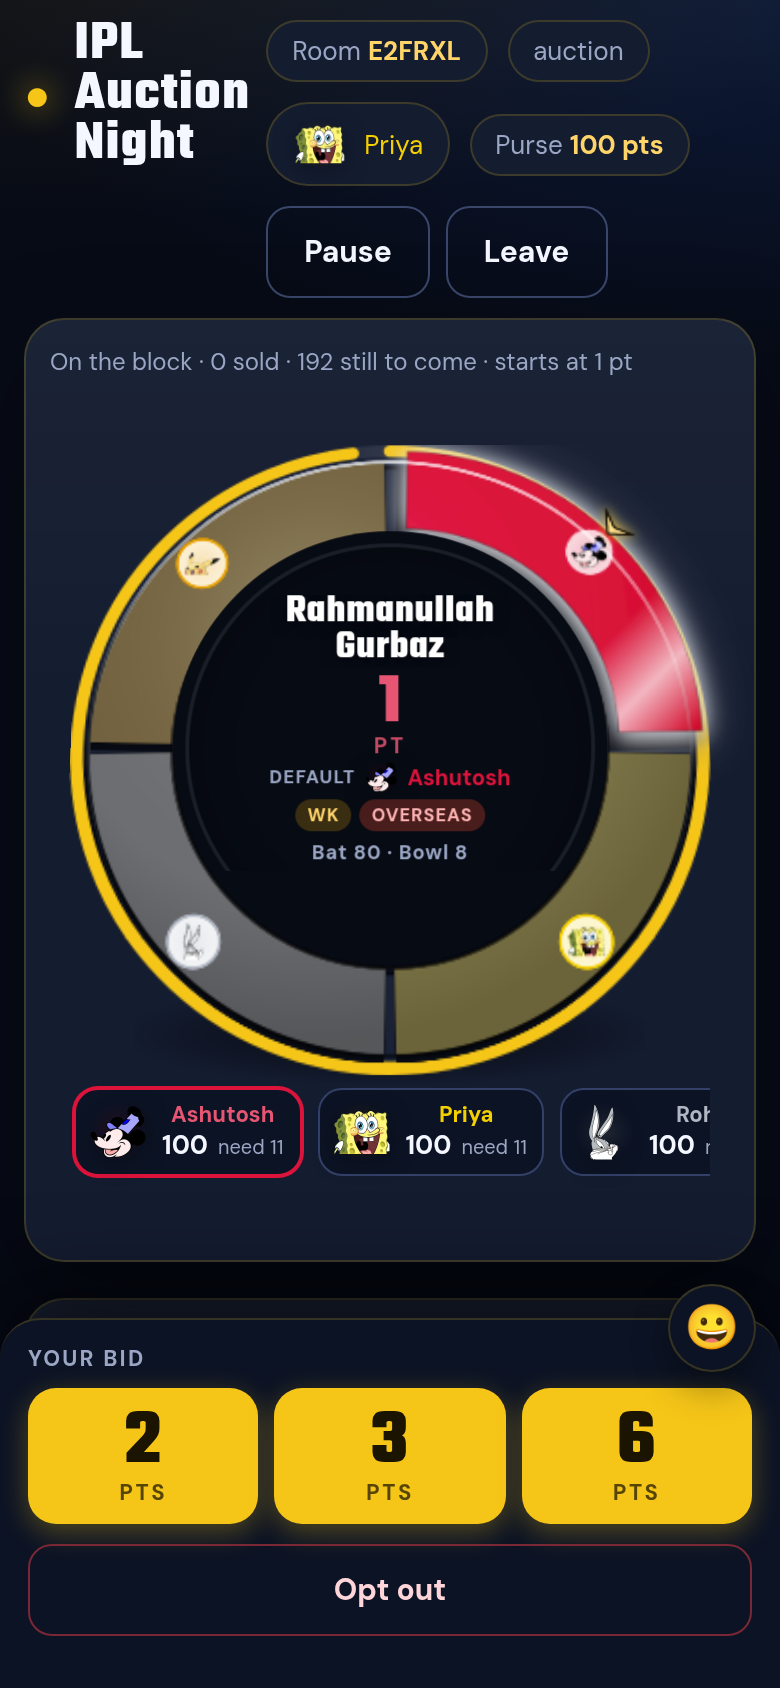
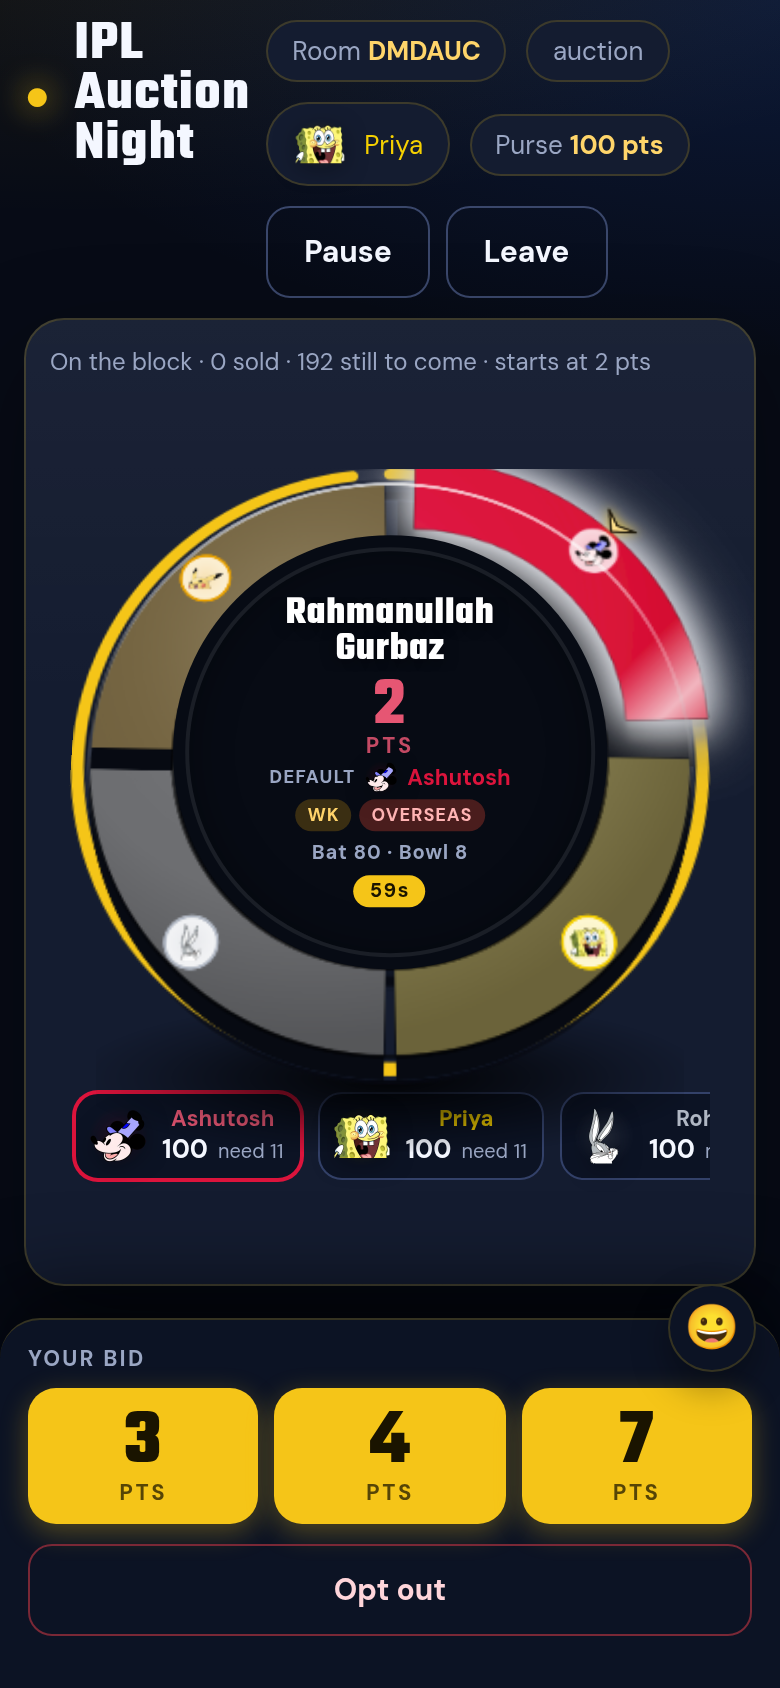
Make the auction ring more 3D and keep the timer visible on phones.
The centre timer was being clipped by the circular hub on 390px; the hub now sits above the 3D stage and its inner stack is capped so the pill stays inside the disc. The ring itself tilts more steeply, with a taller extruded lip, a stronger ground shadow, and a clearer lift (radial plus upward, with a crisper drop shadow) on the leading segment.

diff --git a/public/ring.js b/public/ring.js
@@ -15,8 +15,9 @@
   const R_LOGO = 170;
   const GAP = 2.2;
   const DURATION = 320;
-  const LIFT = 12;
-  const EXTRUDE_Y = 5;
+  const LIFT = 20;
+  const LIFT_UP = -8;
+  const EXTRUDE_Y = 14;
 
   function polar(cx, cy, r, angle) {
     const a = ((angle - 90) * Math.PI) / 180;
@@ -146,24 +147,57 @@
       x: "-45%", y: "-45%", width: "190%", height: "200%",
     });
     shadow.innerHTML = `
-      <feDropShadow dx="1" dy="8" stdDeviation="3.6" flood-color="#000000" flood-opacity="0.62"/>
+      <feOffset in="SourceAlpha" dx="1.4" dy="14" result="off"/>
+      <feGaussianBlur in="off" stdDeviation="2.8" result="blur"/>
+      <feColorMatrix in="blur" type="matrix" values="0 0 0 0 0  0 0 0 0 0  0 0 0 0 0  0 0 0 0.58 0" result="soft"/>
+      <feOffset in="SourceAlpha" dx="0.8" dy="5" result="off2"/>
+      <feGaussianBlur in="off2" stdDeviation="1.05" result="blur2"/>
+      <feColorMatrix in="blur2" type="matrix" values="0 0 0 0 0  0 0 0 0 0  0 0 0 0 0  0 0 0 0.72 0" result="contact"/>
+      <feMerge>
+        <feMergeNode in="soft"/>
+        <feMergeNode in="contact"/>
+        <feMergeNode in="SourceGraphic"/>
+      </feMerge>
     `;
     defs.appendChild(shadow);
 
-    const thickness = el("g", { class: "ring-thickness", transform: `translate(0 ${EXTRUDE_Y})`, "aria-hidden": "true" });
-    const thickBand = el("circle", {
-      cx: CX, cy: CY, r: (R_INNER + R_OUTER) / 2,
-      fill: "none",
-      stroke: "#05070f",
-      "stroke-width": String(R_OUTER - R_INNER + 6),
+    const wallGrad = el("linearGradient", {
+      id: "ring-wall-grad",
+      gradientUnits: "userSpaceOnUse",
+      x1: "200", y1: String(CY + R_INNER - 4),
+      x2: "200", y2: String(CY + R_OUTER + EXTRUDE_Y + 2),
     });
-    const thickFace = el("circle", {
-      cx: CX, cy: CY, r: (R_INNER + R_OUTER) / 2,
+    wallGrad.innerHTML = `
+      <stop offset="0%" stop-color="#1c2438"/>
+      <stop offset="45%" stop-color="#0c101c"/>
+      <stop offset="100%" stop-color="#05070f"/>
+    `;
+    defs.appendChild(wallGrad);
+
+    const thickness = el("g", { class: "ring-thickness", "aria-hidden": "true" });
+    const midR = (R_INNER + R_OUTER) / 2;
+    const band = R_OUTER - R_INNER + 6;
+    // Stacked copies build a solid side wall a few px tall; the bottom face sits at EXTRUDE_Y.
+    for (let i = 2; i < EXTRUDE_Y; i += 2) {
+      thickness.appendChild(el("circle", {
+        cx: CX, cy: CY + i, r: midR,
+        fill: "none",
+        stroke: i < EXTRUDE_Y / 2 ? "#101624" : "#080b14",
+        "stroke-width": String(band),
+      }));
+    }
+    thickness.appendChild(el("circle", {
+      cx: CX, cy: CY + EXTRUDE_Y, r: midR,
       fill: "none",
-      stroke: "#1a2236",
+      stroke: "url(#ring-wall-grad)",
+      "stroke-width": String(band),
+    }));
+    thickness.appendChild(el("circle", {
+      cx: CX, cy: CY + EXTRUDE_Y, r: midR,
+      fill: "none",
+      stroke: "#151c2e",
       "stroke-width": String(R_OUTER - R_INNER + 1),
-    });
-    thickness.append(thickBand, thickFace);
+    }));
 
     const timerTrack = el("circle", {
       cx: CX, cy: CY, r: R_TIMER, fill: "none",
@@ -228,7 +262,7 @@
     pointer.appendChild(head);
 
     svg.append(defs, thickness, timerTrack, timer, segs, rims, well, hubDisc, pointer);
-    svg._ring = { segs, timer, timerC, items: [], pointer, sheenPath, pointerAngle: 0, pointerLift: 0 };
+    svg._ring = { segs, timer, timerC, items: [], pointer, sheenPath, pointerAngle: 0, pointerLift: 0, pointerUp: 0 };
     observeScale(svg);
     return svg._ring;
   }
@@ -255,11 +289,11 @@
     if (item.lift) item.lift.classList.toggle("is-leader", on);
     const mid = midAngle(item.a0, item.a1);
     const [dx, dy] = on ? polar(0, 0, LIFT, mid) : [0, 0];
-    const [bx, by] = on ? polar(0, 0, LIFT * 0.22, mid) : [0, 0];
+    const [bx, by] = on ? polar(0, 0, LIFT * 0.18, mid) : [0, 0];
     const target = item.lift || item.root;
     if (target) {
       target.style.setProperty("--lift-x", dx.toFixed(2));
-      target.style.setProperty("--lift-y", dy.toFixed(2));
+      target.style.setProperty("--lift-y", (dy + (on ? LIFT_UP : 0)).toFixed(2));
     }
     if (item.root) {
       item.root.style.setProperty("--bob-x", bx.toFixed(2));
@@ -305,11 +339,13 @@
     return from + d;
   }
 
-  function applyPointerAngle(ring, ang, lift) {
+  function applyPointerAngle(ring, ang, lift, up) {
     const L = lift || 0;
-    ring.pointer.setAttribute("transform", `rotate(${ang} ${CX} ${CY}) translate(0 ${(-L).toFixed(2)})`);
+    const U = up || 0;
+    ring.pointer.setAttribute("transform", `translate(0 ${U.toFixed(2)}) rotate(${ang} ${CX} ${CY}) translate(0 ${(-L).toFixed(2)})`);
     ring.pointerAngle = ang;
     ring.pointerLift = L;
+    ring.pointerUp = U;
   }
 
   function pointToLeader(svg, animateMotion) {
@@ -321,6 +357,8 @@
     const next = shortestTurn(from, mid);
     const fromLift = ring.pointerLift || 0;
     const nextLift = leader ? LIFT : 0;
+    const fromUp = ring.pointerUp || 0;
+    const nextUp = leader ? LIFT_UP : 0;
     if (ring._pointerAnim) {
       cancelAnimationFrame(ring._pointerAnim);
       ring._pointerAnim = null;
@@ -339,15 +377,15 @@
     };
     ring.pointer.style.opacity = leader ? "1" : "0";
     paintSheen();
-    if (animateMotion === false || (Math.abs(next - from) < 0.2 && Math.abs(nextLift - fromLift) < 0.2)) {
-      applyPointerAngle(ring, next, nextLift);
+    if (animateMotion === false || (Math.abs(next - from) < 0.2 && Math.abs(nextLift - fromLift) < 0.2 && Math.abs(nextUp - fromUp) < 0.2)) {
+      applyPointerAngle(ring, next, nextLift, nextUp);
       return;
     }
     const t0 = performance.now();
     function frame(now) {
       const t = Math.min(1, (now - t0) / DURATION);
       const e = 1 - Math.pow(1 - t, 3);
-      applyPointerAngle(ring, from + (next - from) * e, fromLift + (nextLift - fromLift) * e);
+      applyPointerAngle(ring, from + (next - from) * e, fromLift + (nextLift - fromLift) * e, fromUp + (nextUp - fromUp) * e);
       if (t < 1) ring._pointerAnim = requestAnimationFrame(frame);
       else ring._pointerAnim = null;
     }

diff --git a/public/styles.css b/public/styles.css
@@ -238,7 +238,7 @@ th { color: var(--muted); font-size: 12px; letter-spacing: 0.06em; text-transfor
 
 .top-actions { display: flex; gap: 8px; flex-wrap: wrap; }
 
-.auction-stage { display: grid; justify-items: center; gap: 8px; padding: 16px 10px 24px; }
+.auction-stage { display: grid; justify-items: center; gap: 8px; padding: 18px 10px 34px; }
 .ring-wrap {
   position: relative; width: min(460px, 100%); aspect-ratio: 1;
   margin: 0 auto;
@@ -253,21 +253,21 @@ th { color: var(--muted); font-size: 12px; letter-spacing: 0.06em; text-transfor
 }
 .ring-ground-shadow {
   position: absolute;
-  left: 10%;
-  right: 10%;
-  bottom: -4%;
-  height: 22%;
+  left: 4%;
+  right: 4%;
+  bottom: -12%;
+  height: 32%;
   pointer-events: none;
   z-index: 0;
-  background: radial-gradient(ellipse at center, rgba(0,0,0,0.68) 0%, rgba(0,0,0,0.32) 40%, rgba(0,0,0,0) 74%);
-  transform: translateY(6px) scaleY(0.7);
+  background: radial-gradient(ellipse at center, rgba(0,0,0,0.9) 0%, rgba(0,0,0,0.5) 34%, rgba(0,0,0,0.18) 58%, rgba(0,0,0,0) 76%);
+  transform: translateY(16px) scaleY(0.72);
 }
 .ring-tilt {
   position: relative;
   z-index: 1;
   width: 100%; height: 100%;
-  transform: rotateX(12deg);
-  transform-origin: 50% 52%;
+  transform: rotateX(20deg);
+  transform-origin: 50% 54%;
   transform-style: preserve-3d;
 }
 #auction-ring { width: 100%; height: 100%; overflow: visible; }
@@ -455,11 +455,11 @@ th { color: var(--muted); font-size: 12px; letter-spacing: 0.06em; text-transfor
 @media (max-width: 700px) {
   .logo-picker { grid-template-columns: repeat(auto-fill, minmax(108px, 1fr)); gap: 10px; }
   .hub { width: 64%; height: 64%; padding: 0; }
-  .hub-inner { width: 68%; max-height: none; overflow: visible; gap: 1px; }
+  .hub-inner { width: 68%; max-height: 72%; overflow: visible; gap: 1px; }
   .hub .hub-name { font-size: clamp(16px, 10.5cqmin, 20px); }
-  .hub .hub-bid-num { font-size: clamp(26px, 18cqmin, 40px); }
+  .hub .hub-bid-num { font-size: clamp(24px, 17cqmin, 36px); }
   .hub .hub-leader { font-size: 11px; gap: 4px; }
-  .hub .hub-timer { font-size: 10px; padding: 1px 8px 2px; margin-top: 2px; }
+  .hub .hub-timer { font-size: 10px; padding: 2px 8px 2px; margin-top: 4px; }
 
 }
 

diff --git a/public/app.js b/public/app.js
@@ -557,7 +557,8 @@ function auctionView() {
               <div class="ring-tilt">
                 <svg id="auction-ring" role="img" aria-label="Teams still bidding"></svg>
               </div>
-              <div class="hub" id="auction-hub" style="--c:${esc(a.currentBidderColor || "var(--gold)")}">
+            </div>
+            <div class="hub" id="auction-hub" style="--c:${esc(a.currentBidderColor || "var(--gold)")}">
               <div class="hub-inner">
                 <p class="hub-name" id="hub-name">${esc(p.name)}</p>
                 <p class="hub-bid" id="hub-bid">
@@ -570,7 +571,6 @@ function auctionView() {
                   <span class="hub-rates">Bat ${p.batting} · Bowl ${p.bowling}</span>
                 </div>
                 <p class="hub-timer ${secs <= 3 ? "low" : ""}" id="timer">${state.paused ? "Paused" : secs + "s"}</p>
-              </div>
               </div>
             </div>
           </div>
